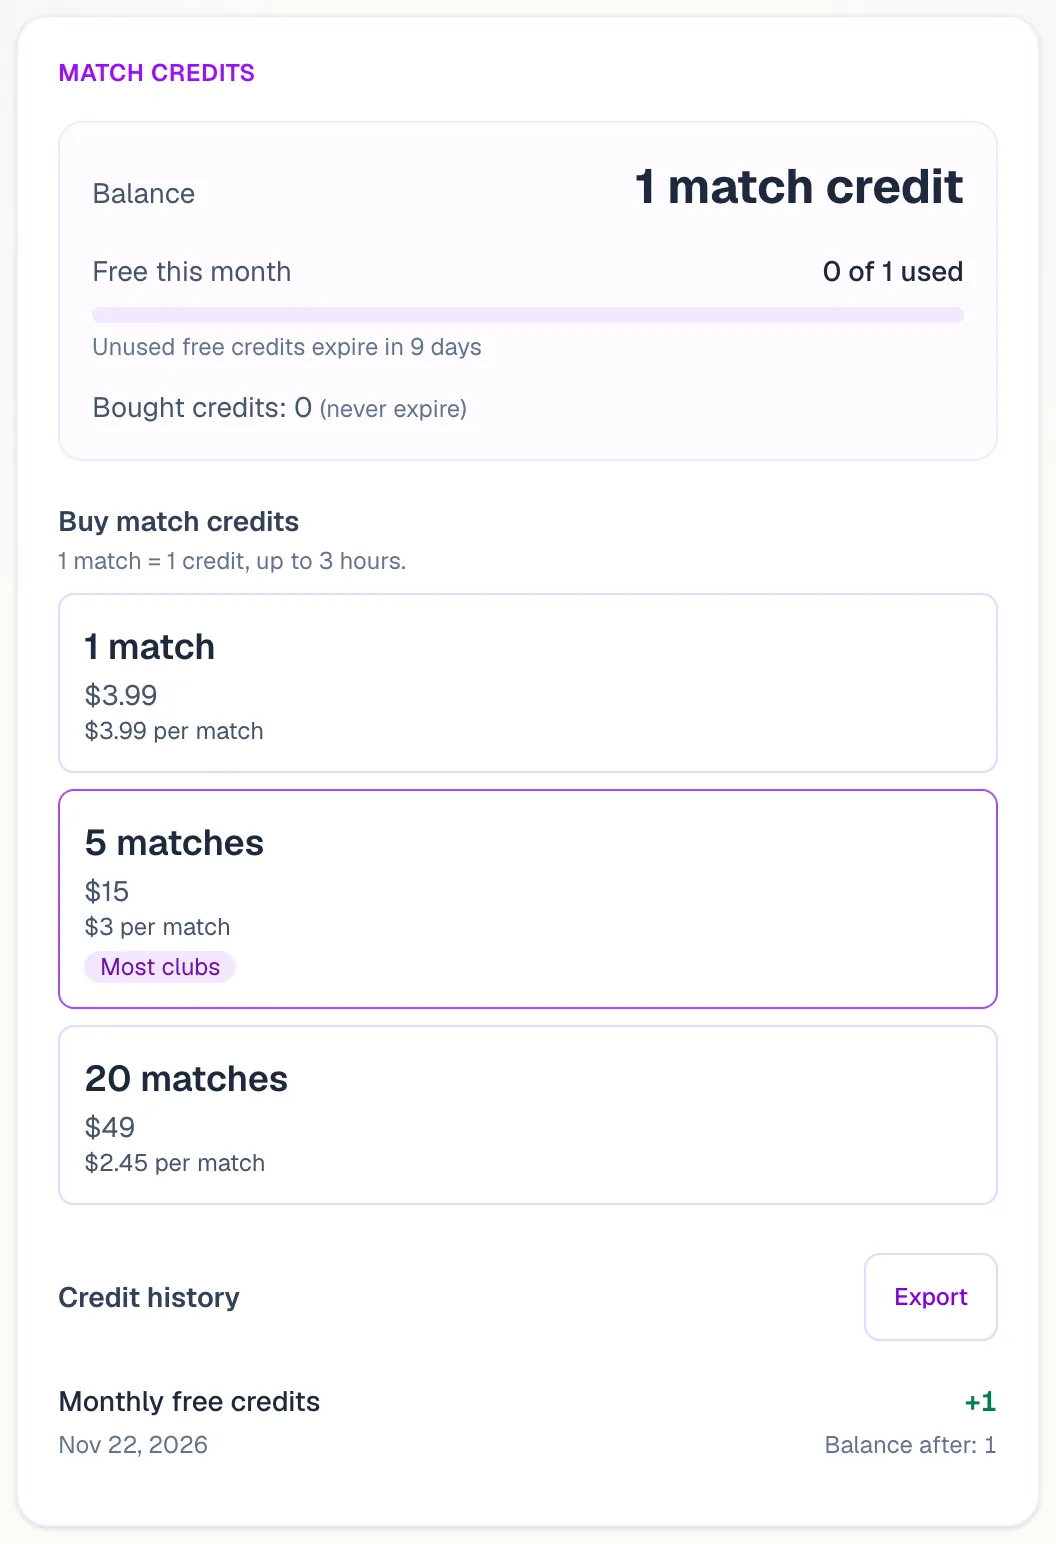
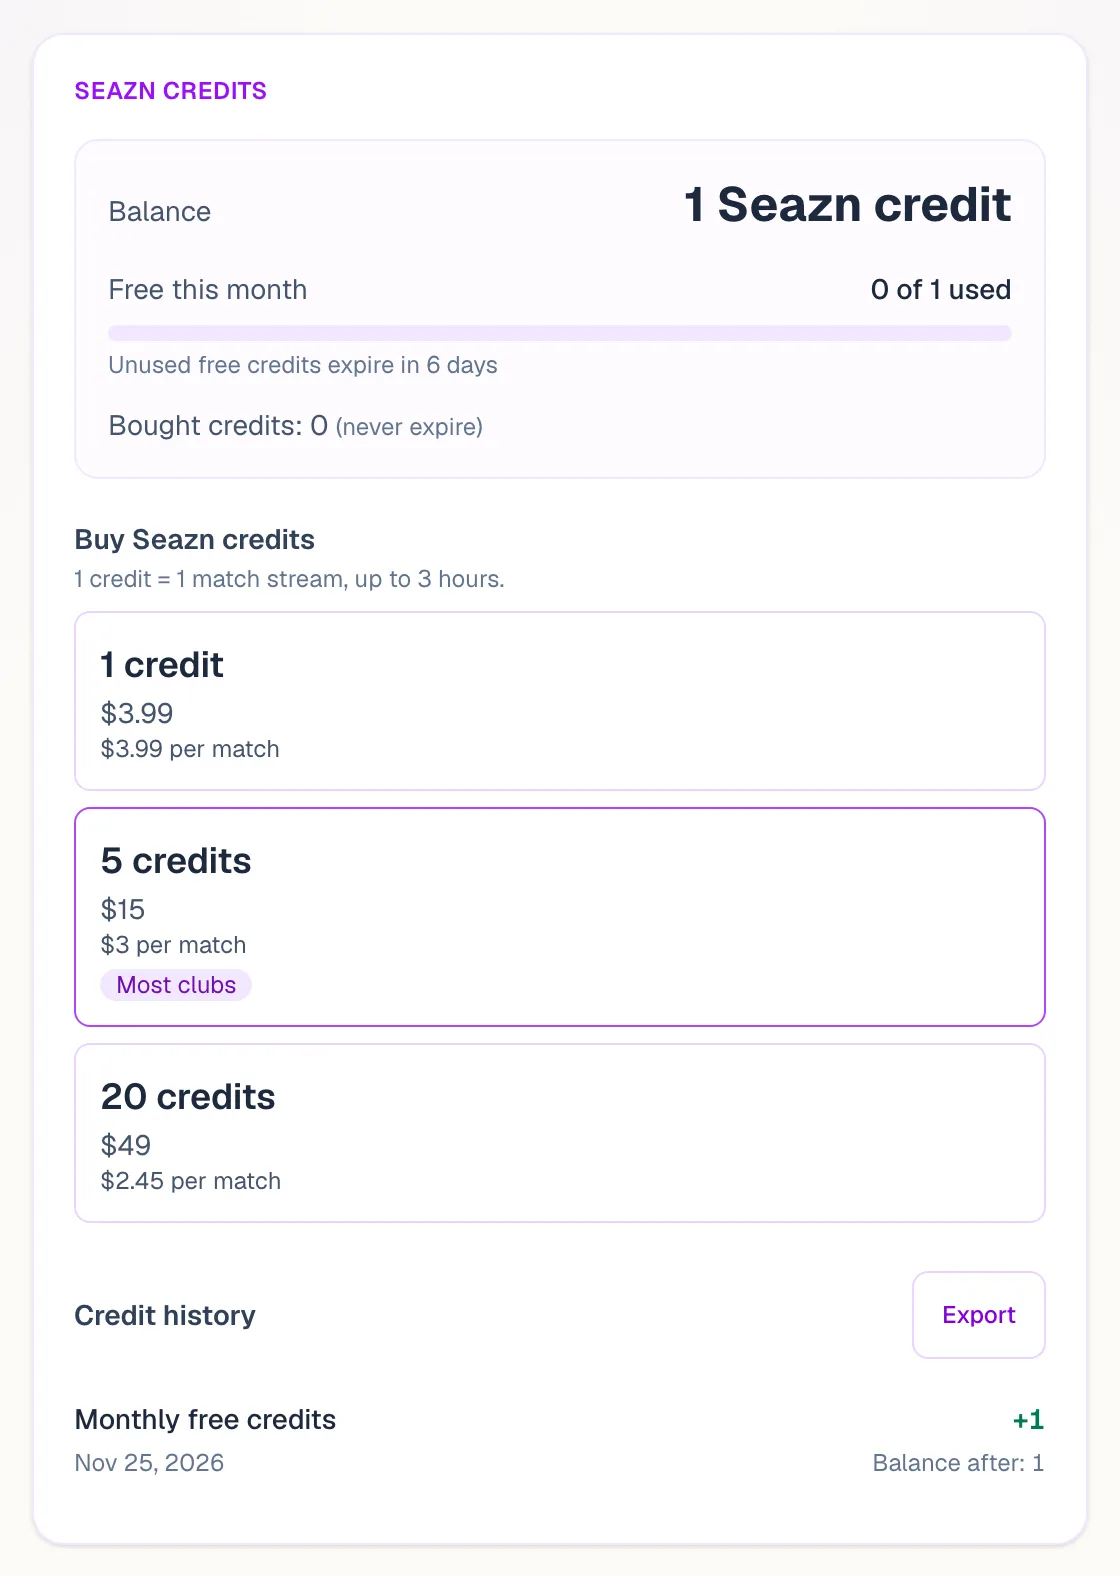
docs(online-chess): recapture the Credits help picture; Credits tab package-row shots
credits-stream.webp now shows Seazn credits (it still said Match credits).
online-chess-credits-tab-shots.spec.ts photographs the package row in en and es
at 1280/768/320, asserting no sideways scroll and six different pictures.

diff --git a/apps/web/e2e/online-chess-credits-tab-shots.spec.ts b/apps/web/e2e/online-chess-credits-tab-shots.spec.ts
@@ -1,0 +1,80 @@
+import { createHash } from "node:crypto";
+import { mkdirSync, readFileSync } from "node:fs";
+import { resolve } from "node:path";
+import { fileURLToPath } from "node:url";
+import { test, expect, type Page } from "@playwright/test";
+import { activeOrg, expectNoHorizontalScroll, setOrgPlanBySql } from "./helpers";
+import { dismissConsent, freshOrg } from "./directory-kit";
+import { seedMatchRoom } from "./match-room-kit";
+import { ONLINE_SIZES } from "../src/lib/online-chess-package";
+
+// Online Chess credits, Task 13 - screenshot evidence for Settings -> Credits with an ONLINE CHESS package row in the history,
+// in English and Spanish at 1280, 768 and 320 (the new row is the one that carries a division name and a size, and the Spanish
+// sentence is the longest of the four locales' - exactly where a page would push sideways).
+//
+// The row is made the way the product makes it: a division paid at "Pay and open round 1" (the open-round route, 402 then pay),
+// not seeded into the ledger - so the row photographed is the one a customer's own payment leaves behind.
+//
+// Own blank session and a brand-new org (freshOrg), so the ledger holds this payment and nothing else of a shared org's.
+// The pictures go to CREDITS_SHOTS_DIR (the default is the programme's own shots folder, outside the repo's tracked files);
+// the spec asserts the six pictures EXIST and DIFFER from one another, so a capture that drew the same page six times fails.
+test.use({ storageState: { cookies: [], origins: [] } });
+
+const SHOTS =
+  process.env.CREDITS_SHOTS_DIR ??
+  resolve(process.cwd(), "../../.superpowers/sdd/shots/oc-credits-tab");
+const WIDTHS = [1280, 768, 320] as const;
+const LOCALES = ["en", "es"] as const;
+type Locale = (typeof LOCALES)[number];
+
+const dictOf = (locale: Locale): Record<string, string> =>
+  JSON.parse(readFileSync(fileURLToPath(new URL(`../src/dictionaries/${locale}/ui.json`, import.meta.url)), "utf8"));
+const say = (locale: Locale, key: string, vars: Record<string, string | number>): string => {
+  const raw = dictOf(locale)[key];
+  if (raw === undefined) throw new Error(`${locale}/ui.json has no ${key}`);
+  return raw.replace(/\{(\w+)\}/g, (_, v: string) => {
+    if (!(v in vars)) throw new Error(`say(${locale}, ${key}): no value for {${v}}`);
+    return String(vars[v]);
+  });
+};
+
+const DIVISION = "Open Rapid"; // seedMatchRoom's division name (match-room-kit.ts)
+
+test("Settings -> Credits shows the Online Chess package row, en and es, at 1280, 768 and 320, with no sideways scroll", async ({ page }) => {
+  test.setTimeout(300_000);
+  mkdirSync(SHOTS, { recursive: true });
+  await freshOrg(page, "occredits");
+  await dismissConsent(page);
+  const org = await activeOrg(page);
+  await setOrgPlanBySql({ orgId: org.id }, "pro");
+  await seedMatchRoom(page.request, { names: ["Ana Petrova", "Bo Lindqvist"], stage: "knockout" });
+
+  const origin = new URL(page.url()).origin;
+  const files: string[] = [];
+  for (const locale of LOCALES) {
+    await page.context().addCookies([{ name: "seazn_locale", value: locale, url: origin }]);
+    // The row's own sentence, from the dictionary: the first payment names the division and the size it paid at (the smallest).
+    const sentence = say(locale, "settings.credits.stream.kind.onlinePackagePaid", { division: DIVISION, size: ONLINE_SIZES[0]! });
+    for (const width of WIDTHS) {
+      await page.setViewportSize({ width, height: 900 });
+      await page.goto(`/o/${org.slug}/settings/credits`, { waitUntil: "load" });
+      const history = page.getByTestId("credits-stream-history");
+      await expect(history, `${locale} ${width}: the history is a table`).toBeVisible({ timeout: 30_000 });
+      await expect(history.getByText(sentence, { exact: false }).first(), `${locale} ${width}: the package row`).toBeVisible();
+      await expectNoHorizontalScroll(page);
+      const file = resolve(SHOTS, `credits-oc-package-${locale}-${width}.png`);
+      await page.screenshot({ path: file, fullPage: true });
+      files.push(file);
+    }
+  }
+
+  expect(files, "2 locales x 3 widths").toHaveLength(6);
+  const hashes = files.map((f) => createHash("sha256").update(readFileSync(f)).digest("hex"));
+  expect(new Set(hashes).size, "six pictures, all different").toBe(6);
+  await shotNote(page, files);
+});
+
+/** The report's note on what was captured (attached to the test so a run's HTML report carries the list). */
+async function shotNote(_page: Page, files: string[]): Promise<void> {
+  await test.info().attach("oc-credits-shots", { body: files.join("\n"), contentType: "text/plain" });
+}

diff --git a/apps/web/src/server/usecases/online-package/__tests__/events-doors.test.ts b/apps/web/src/server/usecases/online-package/__tests__/events-doors.test.ts
@@ -14,14 +14,13 @@
 //
 // single-sport: Online Chess is boardgame only (online-play.ts `supportsOnlinePlay`).
 //
-// Mutant table (each run once by hand; results in the commit message):
-//   E1 the pay door's capture dropped                         -> "the pay door: first payment is ONE `bought` …"
-//   E2 the capture moved inside the transaction               -> "… sent after the commit" (the paid row is not yet visible)
-//   E3 `paidBefore` pinned to false                           -> "… a later payment is `resized`"
-//   E4 the no-op guard dropped (applied false still sent)     -> "… a replay and a refused payment send nothing"
-//   E5 each refund door's capture dropped (three mutants)     -> "delete division: …", "online play off: …", "delete competition: …"
-//   E6 the collector's "something came back or was forfeited" guard dropped -> "applyPackageDelete collects nothing for a row already refunded"
-//   E7 a door's capture dropped from the competition, division or switch-off door (one mutant each) -> that door's case
+// Mutant table (21 mutants, each run once by hand over events.test.ts, this file and open-round-package-events.test.ts; all killed):
+//   pay door:       the capture dropped; `paidBefore` pinned false; the no-op guard dropped (applied false still sent)
+//   props:          the return sign lost on a move down and on a refund; `forfeited` dropped; the plan fallback dropped; the never-throws
+//                   wrapper removed; the distinct id left to the user only; `at_round_one` pinned false; an extra property leaked
+//   refund doors:   each of the three doors' capture dropped (division delete, competition delete, online play off); the switch-off
+//                   door's collector not passed on; the collector's "something came back or was forfeited" guard dropped
+//   openRound gate: the event dropped; `at_round_one` false; `paidBefore` false; a frozen row returning an event; the capture dropped
 import { afterAll, beforeAll, beforeEach, describe, expect, it, vi } from "vitest";
 
 type Seen = { event: string; distinctId: string; orgId?: string; properties: Record<string, unknown>; committedAtCapture: boolean | null };
